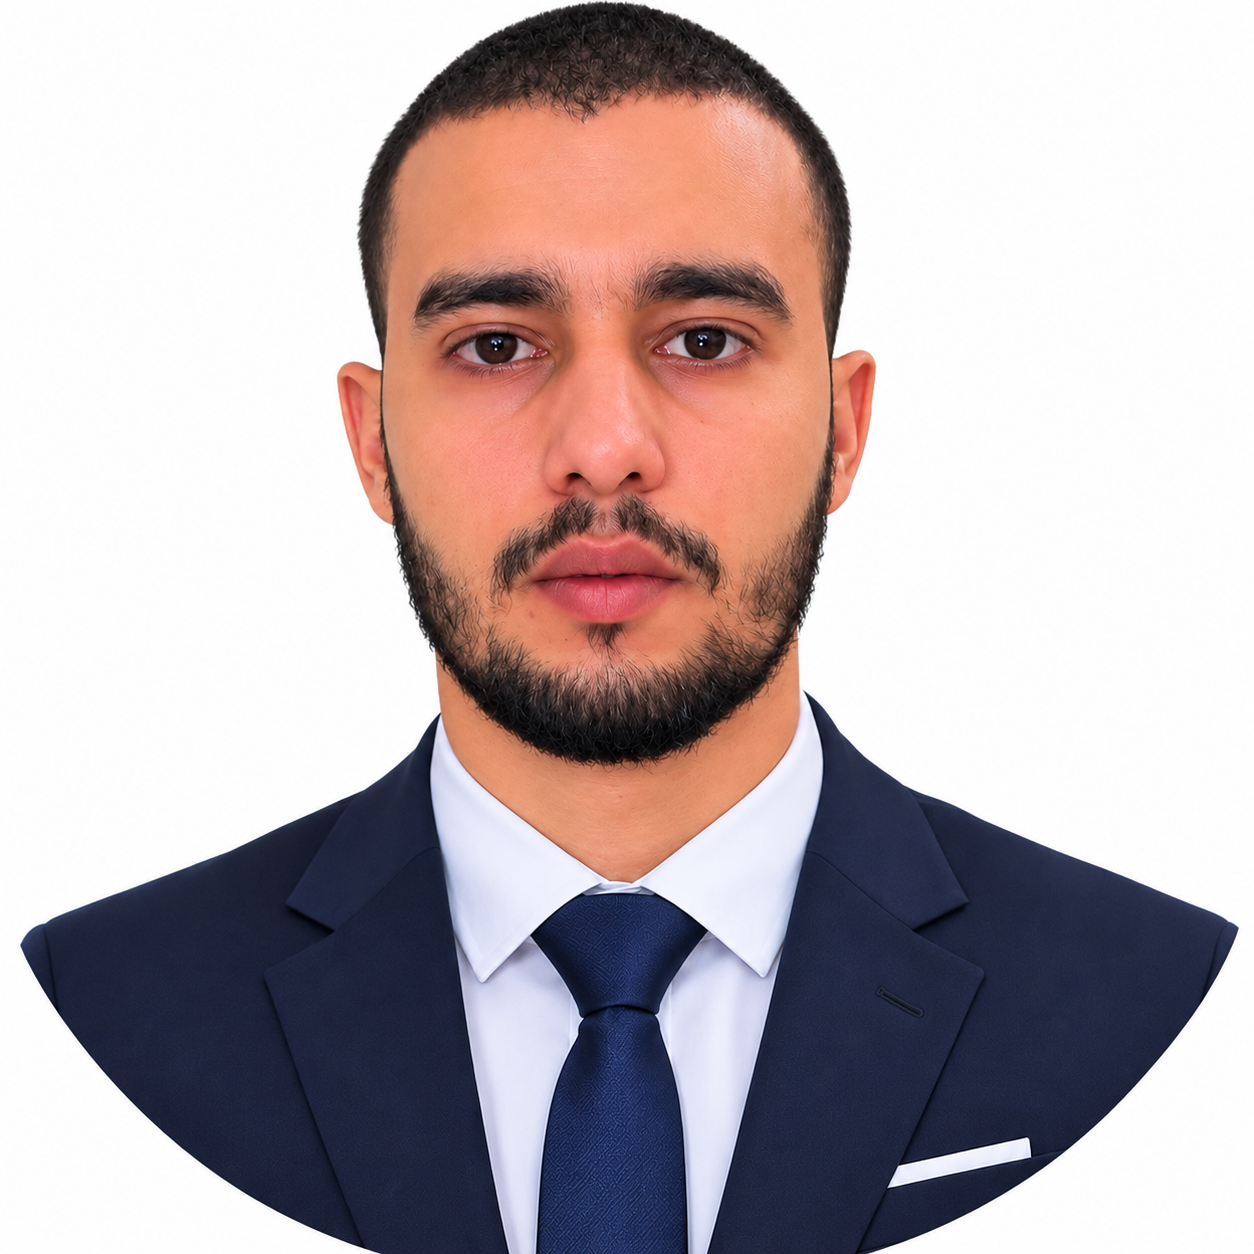
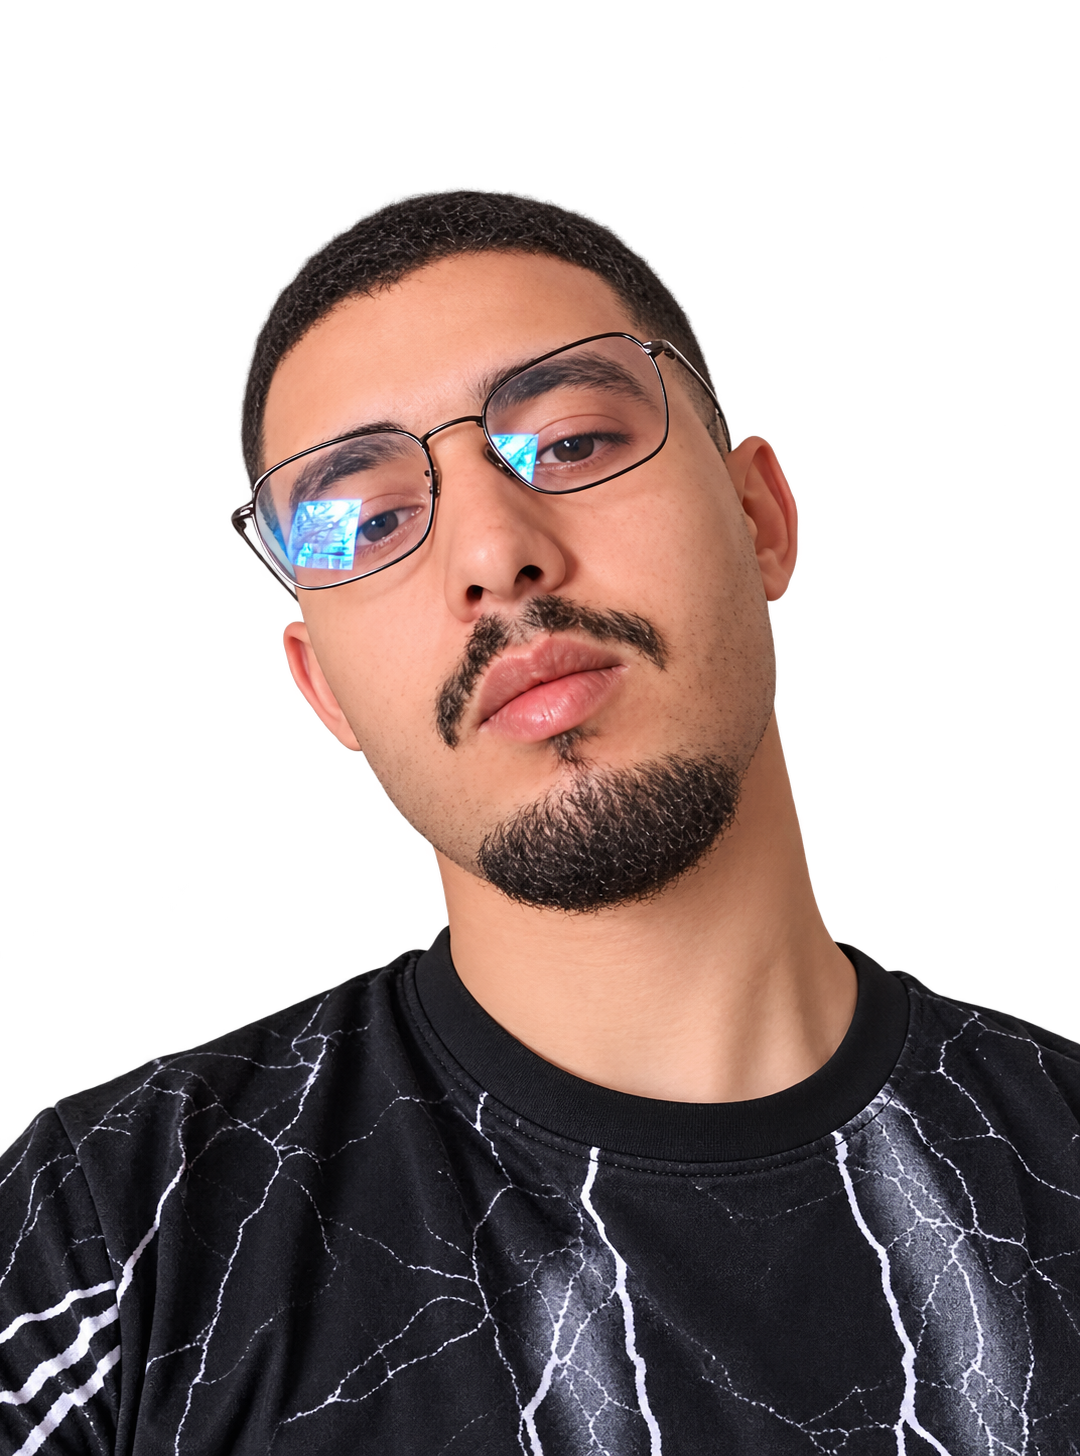
fix: update portfolio profile photograph

diff --git a/index.html b/index.html
@@ -9,7 +9,7 @@
   <meta property="og:title" content="Yasser Oussahel — Développeur Full-Stack">
   <meta property="og:description" content="Portfolio bilingue de Yasser Oussahel, développeur Full-Stack junior au Maroc.">
   <meta property="og:url" content="https://yasser-dev-code.github.io/Portfolio/">
-  <meta property="og:image" content="https://yasser-dev-code.github.io/Portfolio/assets/images/yasser-oussahel.jpg">
+  <meta property="og:image" content="https://yasser-dev-code.github.io/Portfolio/profile.jpg.png?v=20261123">
   <meta name="twitter:card" content="summary_large_image">
   <title>Yasser Oussahel — Développeur Full-Stack</title>
   <link rel="icon" href="assets/icons/favicon.svg" type="image/svg+xml">
@@ -104,7 +104,7 @@
           <div class="portrait-orbit orbit-one"></div>
           <div class="portrait-orbit orbit-two"></div>
           <div class="portrait-frame">
-            <img src="assets/images/yasser-oussahel.jpg" alt="Portrait professionnel de Yasser Oussahel" width="900" height="900" fetchpriority="high" data-i18n-alt="portraitAlt">
+            <img src="profile.jpg.png?v=20261123" alt="Portrait professionnel de Yasser Oussahel" width="1080" height="1456" fetchpriority="high" data-i18n-alt="portraitAlt">
           </div>
           <div class="status-card">
             <span class="status-dot"></span>
